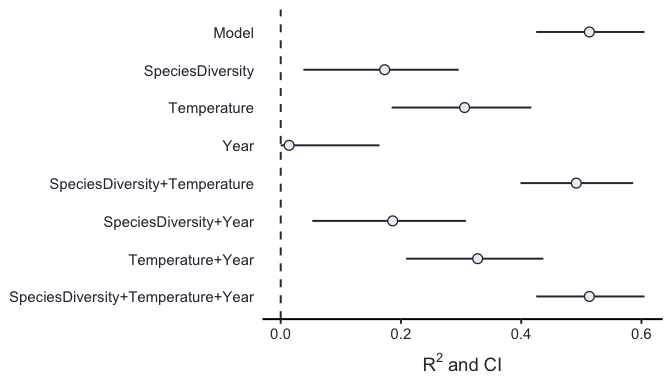
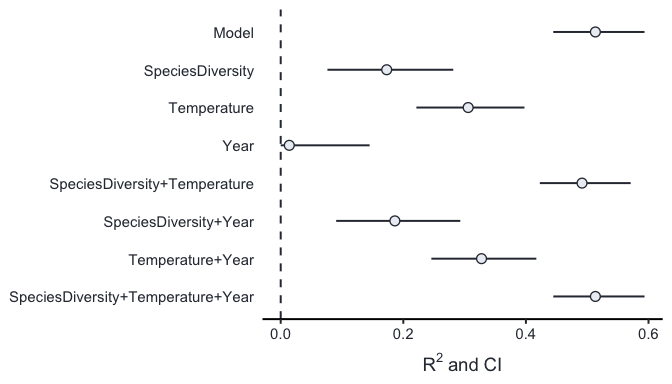
readme

diff --git a/README.md b/README.md
@@ -66,7 +66,7 @@ mod <- lmer(Biomass ~  Year + Temperature + SpeciesDiversity + (1|Population),
 #> # A tibble: 1 x 5
 #>      R2 CI_lower CI_upper nboot   ndf
 #>   <dbl>    <dbl>    <dbl> <int> <dbl>
-#> 1 0.513    0.425    0.605   100     4
+#> 1 0.513    0.445    0.594   100     4
 #> 
 #> ----------
 #> 
@@ -74,14 +74,14 @@ mod <- lmer(Biomass ~  Year + Temperature + SpeciesDiversity + (1|Population),
 #> # A tibble: 8 x 6
 #>   `Predictor(s)`                       R2 CI_lower CI_upper nboot   ndf
 #>   <chr>                             <dbl>    <dbl>    <dbl> <int> <dbl>
-#> 1 Model                             0.513   0.425     0.605   100     4
-#> 2 SpeciesDiversity                  0.173   0.0377    0.296   100     3
-#> 3 Temperature                       0.306   0.184     0.417   100     3
-#> 4 Year                              0.014   0         0.164   100     3
-#> 5 SpeciesDiversity+Temperature      0.492   0.399     0.586   100     2
-#> 6 SpeciesDiversity+Year             0.186   0.0525    0.308   100     2
-#> 7 Temperature+Year                  0.328   0.208     0.437   100     2
-#> 8 SpeciesDiversity+Temperature+Year 0.513   0.425     0.605   100     1
+#> 1 Model                             0.513   0.445     0.594   100     4
+#> 2 SpeciesDiversity                  0.173   0.0762    0.282   100     3
+#> 3 Temperature                       0.306   0.221     0.398   100     3
+#> 4 Year                              0.014   0         0.145   100     3
+#> 5 SpeciesDiversity+Temperature      0.492   0.423     0.571   100     2
+#> 6 SpeciesDiversity+Year             0.186   0.0905    0.293   100     2
+#> 7 Temperature+Year                  0.328   0.246     0.417   100     2
+#> 8 SpeciesDiversity+Temperature+Year 0.513   0.445     0.594   100     1
 ```
 
 And to plot the results:
@@ -94,7 +94,7 @@ forestplot(R2, type = "R2", line_size = 0.7, text_size = 14, point_size = 3)
 
 ### Citation
 
-When using it, please cite our
+When using `partR2`, please cite our
 [preprint](https://www.biorxiv.org/content/10.1101/2020.07.26.221168v1.abstract)
 for now, and look out for the peer-reviewed paper, which will hopefully
 come out soon.
